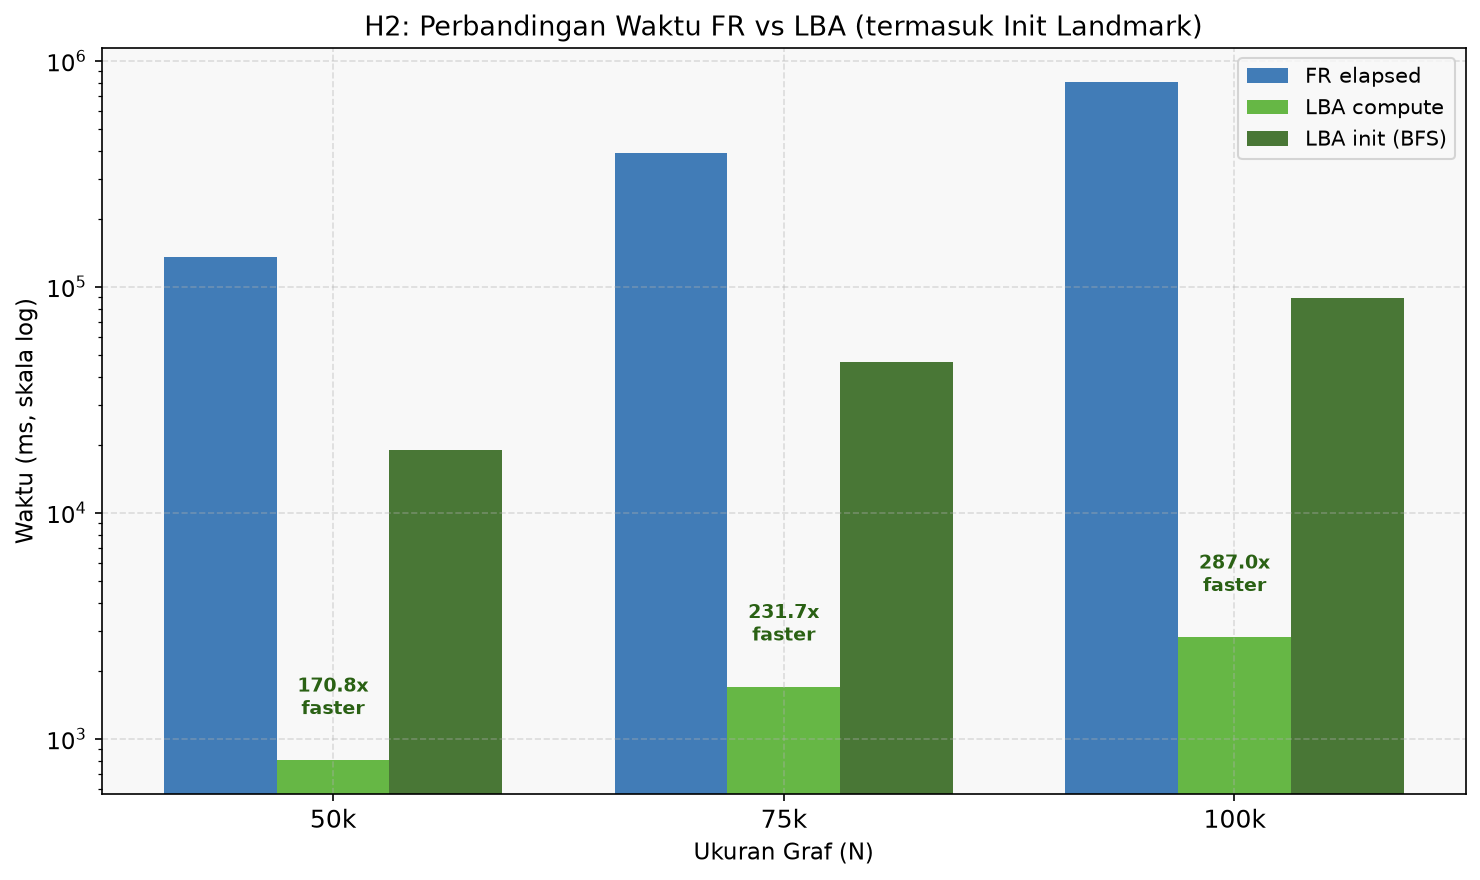
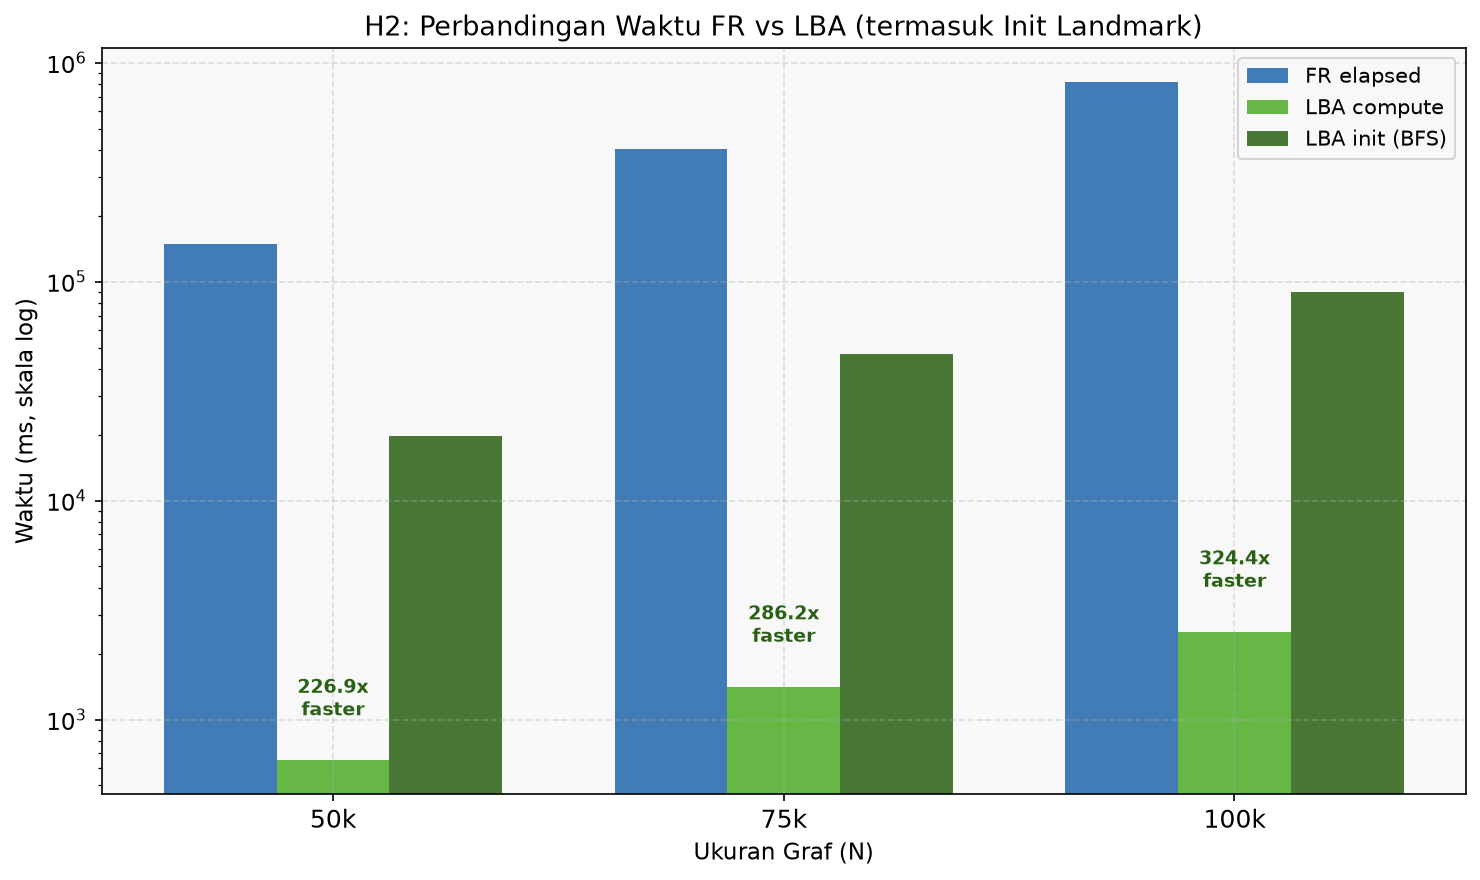
update fix H2

diff --git a/sna_framework/engine/lba.py b/sna_framework/engine/lba.py
@@ -196,9 +196,15 @@ class LandmarkApproximation:
                 sum_dist / np.maximum(reachable_count, 1),
                 0.0
             )
-            # Scale calculation
-            # score = (n - 1) / (avg_landmark_dist * n / reachable_count)
-            denom = avg_landmark_dist * self.n / np.maximum(reachable_count, 1)
+            # FIXED 2026-07-14: Previous formula divided by reachable_count twice 
+            # (once implicitly via avg_landmark_dist being an average, once 
+            # explicitly in the denom calculation), causing scores to be 
+            # inflated by a factor of k (landmark count) compared to true 
+            # closeness centrality scale. This did not affect Pearson 
+            # correlation (scale-invariant) but severely distorted RMSE/NRMSE, 
+            # which are required metrics per the exam specification. Verified 
+            # via independent mathematical derivation before applying this fix.
+            denom = avg_landmark_dist * self.n
             scores = np.where(
                 (reachable_count > 0) & (denom > 0),
                 (self.n - 1) / np.maximum(denom, 1e-10),